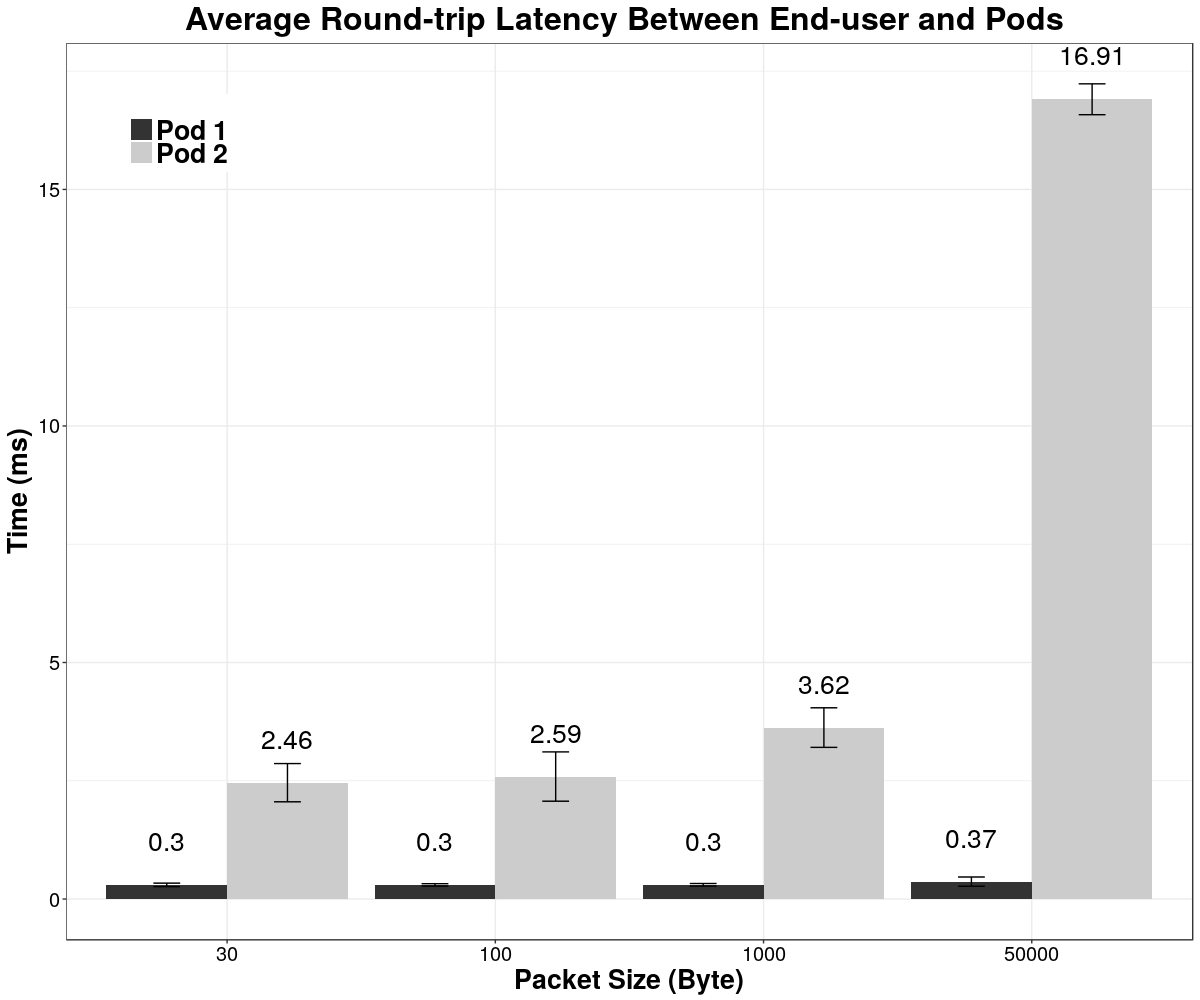
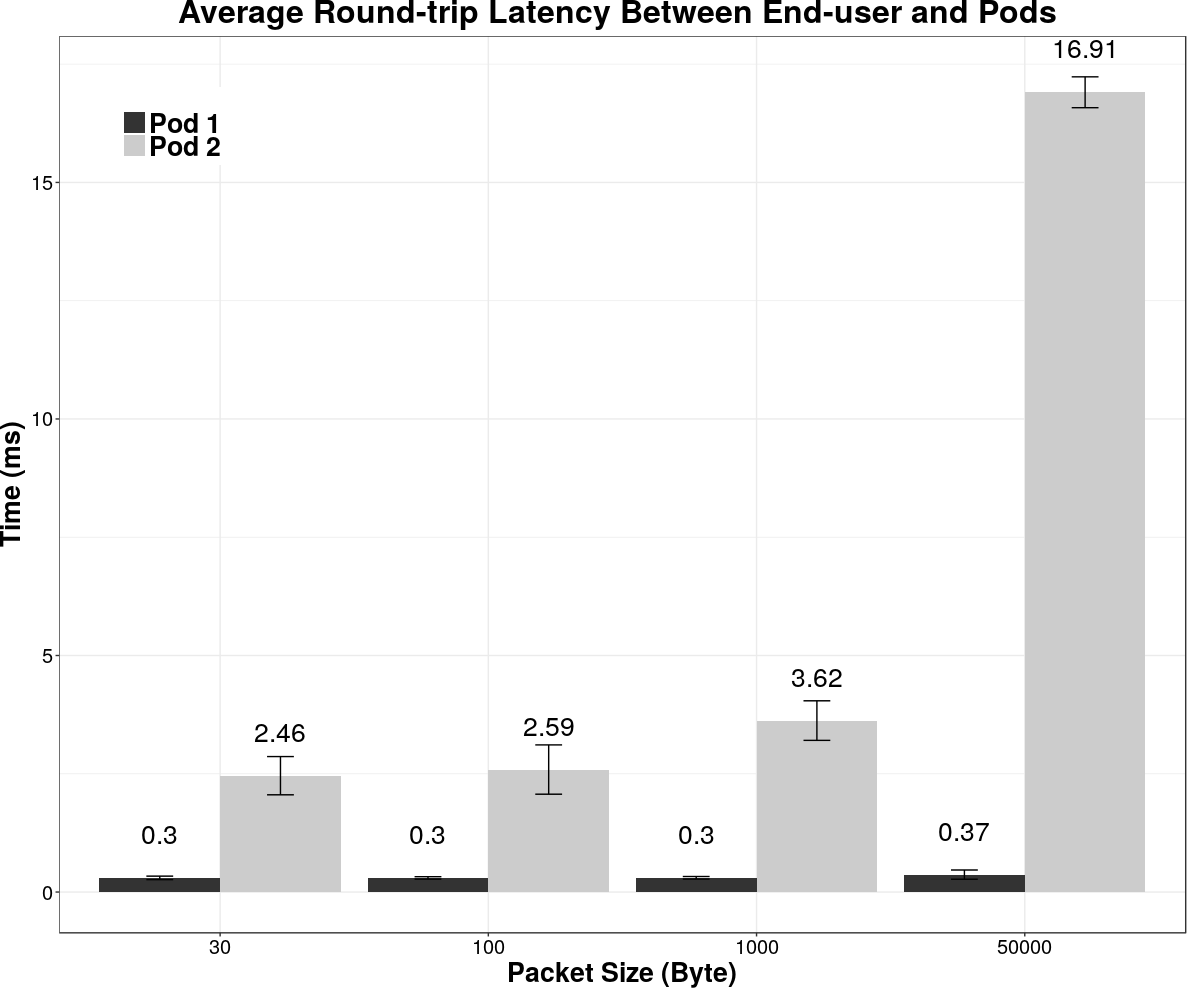
The paper is ready for submission. Yeah!

diff --git a/paper/fogaware.tex b/paper/fogaware.tex
@@ -88,7 +88,7 @@ An essential requirement for a fog computing platform is therefore to
 take the location of fog resources and end-user devices into account
 to ensure proximity between the two. However, most platforms available
 today such as OpenStack, Docker Swarm, Mesos and Kubernetes were
-initially designed with datacenter deployments in mind and therefore
+initially designed with data center deployments in mind and therefore
 often do not provide location awareness in their resource scheduling
 and/or load balancing algorithms.
 
@@ -125,7 +125,7 @@ scenarios.
 
 
 %Explain organization of the report, what is included, and what is not.
-This paper is organised as follows. In Section~\ref{sec:plat}, we
+This paper is organized as follows. In Section~\ref{sec:plat}, we
 discuss the state of the art. In Section~\ref{sec:kube}, we introduce
 Kubernetes as a platform, discuss its advantages and disadvantages in
 the context of fog computing platform. In Section~\ref{sec:road}, we
@@ -201,7 +201,7 @@ of a fog computing platform.
 \begin{figure}[t]
   \centering
   \includegraphics[width=\linewidth]{images/arch.png}
-  \caption{Kubernetes architecture} 
+  \caption{Kubernetes architecture.} 
   \label{fig:arch}
 \end{figure}
 
@@ -226,7 +226,9 @@ expected to create a \emph{Deployment Controller}, which is in charge
 of the creation and management of one or more identical pods providing
 the expected service. Such a set of pods can be made publicly
 accessible from external end users by creating a \emph{Service} which
-acts as a frontend for the group of pods.\noteaf{frontend or front-end?}
+acts as a front end for the group of pods.
+%\noteaf{frontend or front-end?}
+%\notegp{actually: front end :-) \url{https://en.wikipedia.org/wiki/Front_and_back_ends}}
 
 The master may schedule each pod in any worker node, by default chosen
 as the worker node with the lowest load in the system. Since pods may
@@ -244,7 +246,7 @@ be placed in different nodes, communication is established as follows:
 \begin{figure}[t]
   \centering
   \includegraphics[width=.9\linewidth]{images/svc.png}
-  \caption{Organization of a Kubernetes service}
+  \caption{Organization of a Kubernetes service.}
   \label{fig:svc}
 \end{figure}
 
@@ -255,7 +257,7 @@ endpoint) and receives a label (Label X in the figure). The Service
 then acts as a load balancer between all the registered pods with the
 chosen label. The selection of the pod an end user request gets
 redirected to is driven by a load-balancing policy such as random,
-round-robin, source hashing, and shortest expected delay.\noteaf{ The load balancing part}
+round-robin, source hashing, and shortest expected delay.
 
 \medskip In the next sections we discuss the strengths and weaknesses
 of this architecture in the specific case where one chooses to use
@@ -291,7 +293,7 @@ cloud as well as fog computing environments.
   where the system continuously monitors itself in order to react to
   any discrepancy between the actual and the desired system
   state. This makes Kubernetes extremely robust in face of various
-  types of failures and misbehaviours that are due to be even more
+  types of failures and misbehaviors that are due to be even more
   frequent in a decentralized fog architecture than a datacenter-based
   cloud.
 
@@ -361,14 +363,18 @@ processes.
 
 
 To illustrate the need for location-awareness, we deployed a small
-testbed \noteaf{testbed or test-bed?}composed of three Raspberry Pi~3 nodes running Kubernetes v1.9. As illustrated in Figure~\ref{fig:clus}, one
-of these nodes acts as the cluster's master node while the other two
-are considered as worker nodes. The worker nodes also act as Wi-Fi
-gateways so the end users may connect to the closest worker node with
-a 1-hop Wi-Fi connection. The master and worker nodes are connected to
-each other using a 1\,Gbps Ethernet local-area network\footnote{The
-  local-area network infrastructure guarantees a 1\,Gbps capacity
-  although the Ethernet interface of the Raspberry Pi~3 only supports
+testbed
+%\noteaf{testbed or test-bed?}
+%\notegp{testbed: \url{https://en.wikipedia.org/wiki/Testbed}}
+composed of three Raspberry Pi~3 nodes running Kubernetes v1.9. As
+illustrated in Figure~\ref{fig:clus}, one of these nodes acts as the
+cluster's master node while the other two are considered as worker
+nodes. The worker nodes also act as Wi-Fi gateways so the end users
+may connect to the closest worker node with a 1-hop Wi-Fi
+connection. The master and worker nodes are connected to each other
+using a 1\,Gbps Ethernet local-area network\footnote{The local-area
+  network infrastructure guarantees a 1\,Gbps capacity although the
+  Ethernet interface of the Raspberry Pi~3 only supports
   10/100\,Mbps. This means that the network infrastructure will not
   impose additional bottlenecks besides the limitations of the
   Raspberry Pi hardware.}.
@@ -392,8 +398,8 @@ each other using a 1\,Gbps Ethernet local-area network\footnote{The
 
 \begin{figure}[tbp]
   \centering
-  \includegraphics[width=.9\linewidth]{images/graph.png}
-  \caption{Round-trip Latencies}
+  \includegraphics[width=\linewidth]{images/graph.png}
+  \caption{Round-trip latencies.}
   \label{fig:lat}
 \end{figure}
 
@@ -444,19 +450,51 @@ networks, we expect these differences to be at least as large.
 \subsection{How Kubernetes routes requests to pods (and how to improve
   it)}
 
-\it
+\begin{figure}[tbp]
+  \centering
+  \includegraphics[width=\linewidth]{images/ing.png}
+  \caption{Communication between pods and external end users.}
+  \label{fig:ing}
+\end{figure}
 
-In normal settings: one or more ingress points + any standard solution
-to direct end-user traffic to one ingress point (e.g., DNS). Then, one
-of the standard load-balancing policies to determine which pod to
-route traffic to.
+Figure~\ref{fig:ing} details the way an external end user's requests
+get routed toward one of the pods providing the requested service. In
+a standard cloud scenario, the system administrator needs to setup an
+\emph{Ingress} (on a public IP address usually registered using DNS)
+which exposes the service to the outside world. The Ingress merely
+forwards traffic to the appropriate Service on the same node, which in
+turn decides to which pod the request should be routed to.
 
-In our fog archi: every node is in fact an ingress point. So this
-boils down to local network tricks + adjusting the load-balancing
-strategy. We may think of redirecting traffic based on nodes' GPS
-coordinates (to minimize the physical distance), Vivaldi
-coordinates~\cite{vivaldi} (to minimize the network latency), etc.
-\rm
+In the fog computing scenario depicted on the bottom half of the
+figure, it is no longer necessary to rely on a specific
+Ingress. Instead, since the end users connect directly to one of the
+worker nodes, their requests immediately enter the Kubernetes cluster
+without the need to link the external Internet with the internal
+Kubernetes system. In Kubernetes, every worker node can access the
+Service and make request-routing decisions locally.
+
+The default load-balancing policy randomly distributes requests among
+pods. This is obviously sub-optimal in the case of fog computing, as
+for example a worker node which contains a pod of some service may
+redirect requests to another pod instead of servicing the request
+itself. We therefore plan to design new location-aware load-balancing
+policies that will aim at routing traffic to a nearby pod. The
+decision may be based on nodes' GPS coordinates (if we want to
+minimize the geographical distance) or Vivaldi
+coordinates~\cite{vivaldi} (if we want to minimize the network
+latency).
+
+% In normal settings: one or more ingress points + any standard solution
+% to direct end-user traffic to one ingress point (e.g., DNS). Then, one
+% of the standard load-balancing policies to determine which pod to
+% route traffic to.
+
+% In our fog archi: every node is in fact an ingress point. So this
+% boils down to local network tricks + adjusting the load-balancing
+% strategy. We may think of redirecting traffic based on nodes' GPS
+% coordinates (to minimize the physical distance), Vivaldi
+% coordinates~\cite{vivaldi} (to minimize the network latency), etc.
+% \rm
 
 \subsection{Location-aware scheduling}
 
@@ -477,9 +515,14 @@ to design an entirely new controller to periodically estimate how
 efficient the current replica placement is, and to initiate
 adjustments when necessary.
 
+A longer-term goal may also be to decentralize the scheduling process
+itself. In a fog computing environment, the resources to be scheduled
+are usually located very close from the process which requested their
+creation. In this context it might make sense to avoid using a
+centralized scheduling component, and to rather let the nearby worker
+nodes self-organize to allocate their available resources according to
+local demands.
 
-
-\emph{Longer-term goal: decentralizing the scheduler itself.}
 
 % The absence of location awareness is not only needed for accessing the pods, but also at the deployment of the pods. Consider Figure~\ref{fig:dep} where the mesh represents the geographical distribution of a cluster consists of 40 nodes, with an application that have 4 replica pods. If the deployment container of k8's did not consider the location of the nodes, the replicas can be located in a problematic manner as in case 2, and vice-versa for case 1. \change{rephrase!}
 
@@ -519,13 +562,22 @@ adjustments when necessary.
 %%%%%%%%%%%%%%%%%%%%%%%%%%%%%%%%%%%%%%%%%%%%%%%%%%%%%%%%%%% Conclusion %%%%%%%%%%%%%%%%%%%%%%%%%%%%%%%%%%%%%%%%%%%%%%%%%%%
 \section{Conclusion}\label{sec:conclusion}
 
-In this paper, we have targeted the challenges the fog have nowadays,
-the lack of a fully compatible platforms, and the need to add some key
-elements to the currently available platforms. We have added the
-motivation to update Kuberenetes to support the fog needs throughout
-running our own cluster and tackling the main issues we face. Finally,
-we have proposed our vision for the upcoming steps, that will be our
-next objective.
+Fog and cloud computing platforms share many identical concerns, which
+makes it attractive to use mature cloud computing platforms to build
+new fog computing platforms. However, this requires a number of
+adjustments in particular to support location-awareness. We have
+chosen Kubernetes as the basis for our work, and proposed a roadmap of
+the necessary adjustments before it can realistically be considered as
+the world's best fog computing platform.
+
+
+% In this paper, we have targeted the challenges the fog have nowadays,
+% the lack of a fully compatible platforms, and the need to add some key
+% elements to the currently available platforms. We have added the
+% motivation to update Kuberenetes to support the fog needs throughout
+% running our own cluster and tackling the main issues we face. Finally,
+% we have proposed our vision for the upcoming steps, that will be our
+% next objective.
 
 %%%%%%%%%%%%%%%%%%%%%%%%%%%%%%%%%%%%%%%%%%%%%%%%%%%%%%%%%%% Acknowledgments %%%%%%%%%%%%%%%%%%%%%%%%%%%%%%%%%%%%%%%%%%%%%%%%%%%
 % \section{Acknowledgments} 
